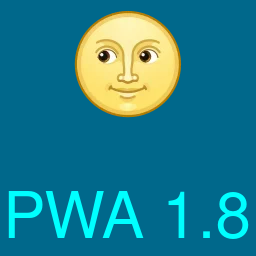
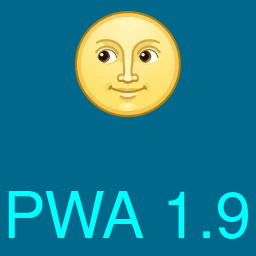
ver. 1.9

Changed region(s): [[0.8438, 0.75, 0.9688, 0.9375]]

diff --git a/app.html b/app.html
@@ -6,6 +6,6 @@
     <link rel="manifest" href="manifest.json" />
   </head>
   <body style="background: deepskyblue;">
-    <p>App page ver. 1.8</p>
+    <p>App page ver. 1.9</p>
   </body>
 </html>
